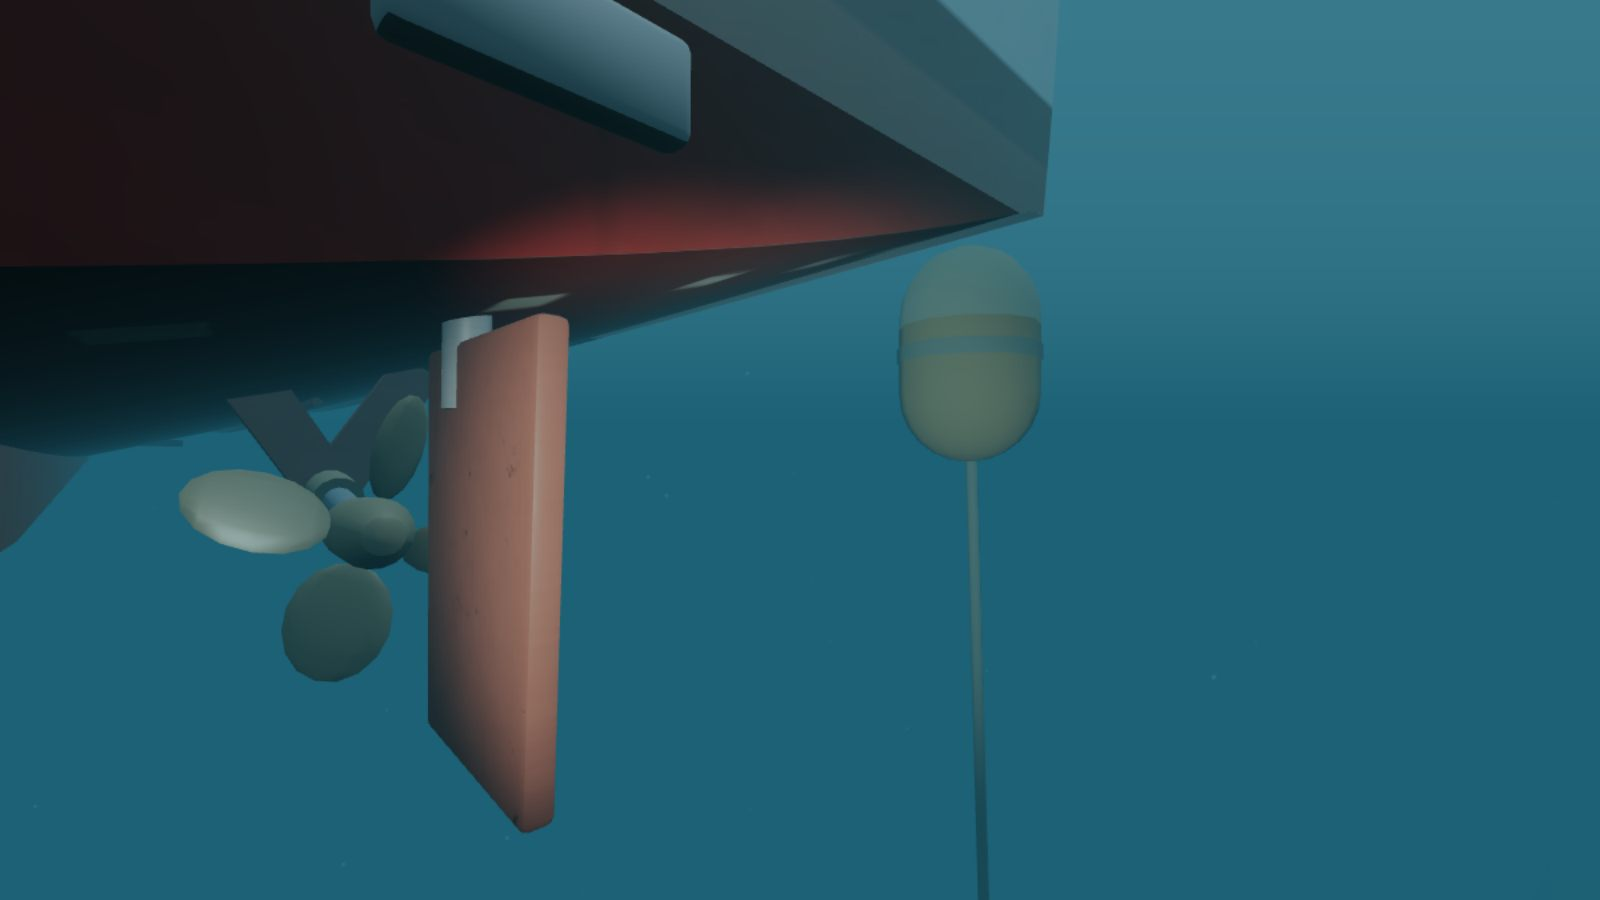
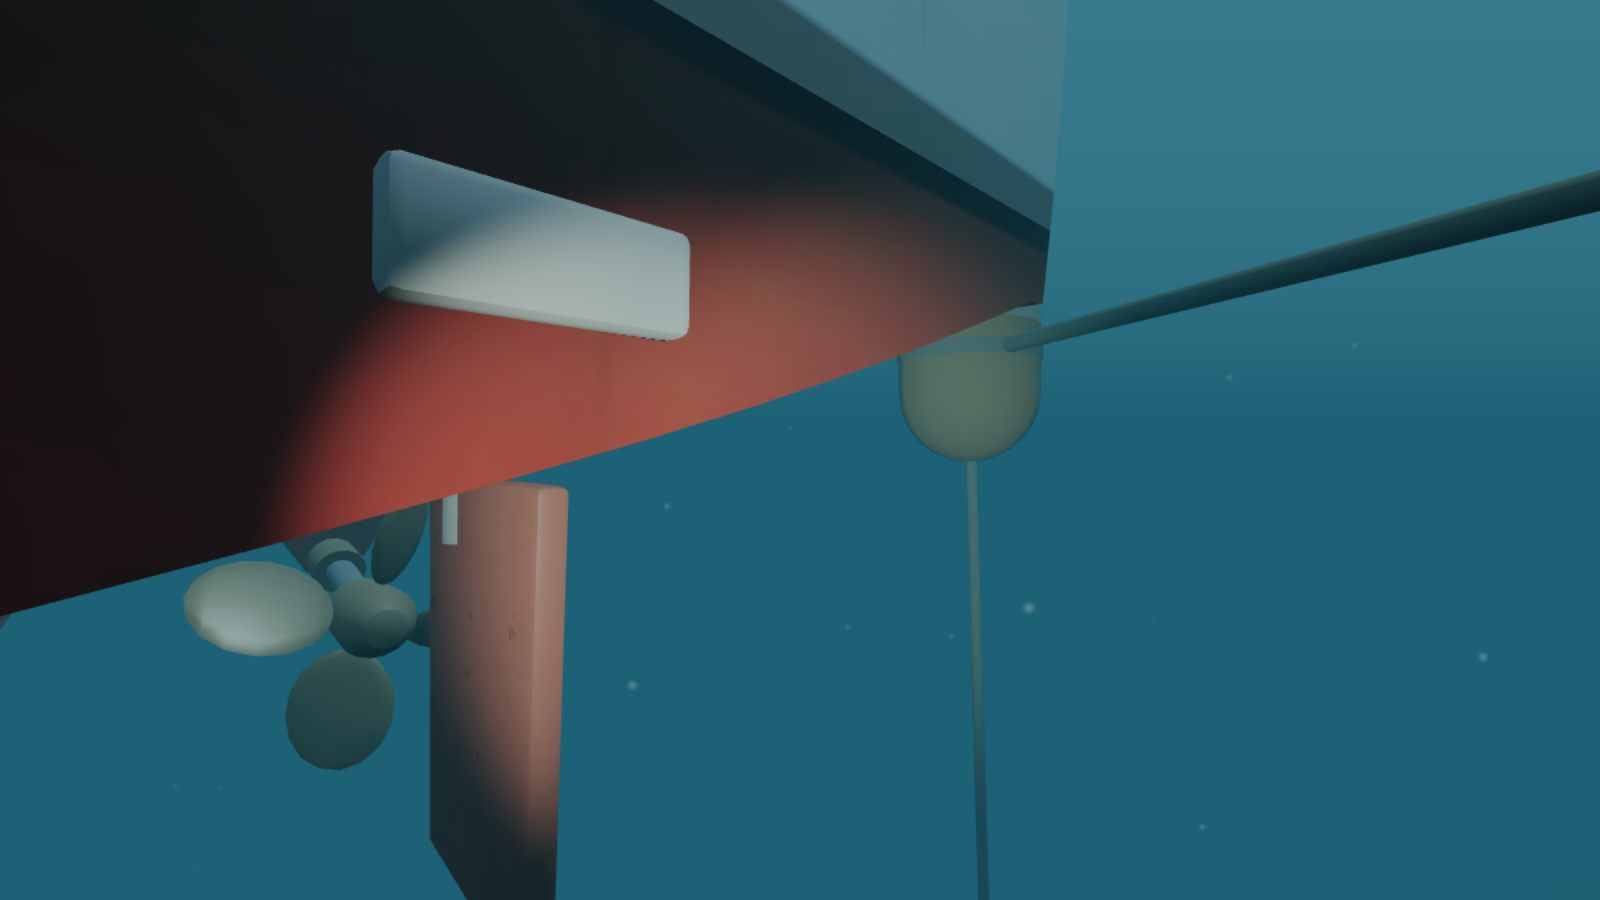
Keep the open-water recovery pickup visible during unpowered deployment

Changed region(s): [[0.0, 0.0, 0.6562, 1.0], [0.6562, 0.1867, 1.0, 0.3733], [0.2188, 0.0, 0.4375, 0.1556]]

diff --git a/simulator/qysim/scene_landmarks.py b/simulator/qysim/scene_landmarks.py
@@ -47,16 +47,26 @@ MOORINGS = {
 
 def training_stations(bed):
     """The four corners of the open-water box have separate marker lines outside the flight lane."""
+    recovery_head = (-3.6, -2.7, .12)
     stations = [
         ("North drop", (13, 1.5), (13.2, 1, 2.7), (5., 9.)),
         ("East drop", (8.6, 14), (10.3, 13.4, 5.7), (7.9, 10.7)),
         ("Deep drop", (-3.8, 8), (-3.1, 9.4, 8.6), (11.4, 13.6)),
-        ("Recovery drop", (-3, -3), (-3.6, -2.7, .12), (2.8, 6.1, 9.)),
+        ("Recovery drop", (-3, -3), recovery_head, (2.8, 6.1, 9.)),
     ]
     obstacles = []
     for label, foot, head, depths in stations:
         floor = bed - float(channel_relief(foot[1]))
         obstacles.extend(sounding_mooring(label, (*foot, floor), head, depths))
+    # A short pickup pendant trails the recovery buoy toward the deployment side.
+    # Its upper fender marks the surface and the lower stopper sits above the free handhold.
+    pickup = (4.55, 1.95, .16)
+    obstacles.extend([
+        Cylinder("Recovery pickup painter", recovery_head, pickup, .031, "survey_line"),
+        Cylinder("Recovery pickup fender", pickup, (4.55, 1.95, .71), .30, "survey_float"),
+        Cylinder("Recovery hand line", (4.55, 1.95, .66), (4.65, 2.06, 2.63), .039, "survey_line"),
+        Cylinder("Recovery stopper float", (4.61, 2.02, 1.87), (4.61, 2.02, 2.08), .19, "survey_float"),
+    ])
     return obstacles
 
 

diff --git a/docs/design/scene-density/README.md b/docs/design/scene-density/README.md
@@ -65,3 +65,5 @@ kill "$before_pid" "$after_pid"
 港邊的玻璃、陶片與纜繩殘段分布在樁腳和港底，樁面可見測站編號及附著群。沉船的斷肋、鋼板和散落件延伸到船體以外。礁區的岩拱可以穿過，海草場的岩脊露出草冠。風場的水平線保持開闊，箱網外圈可見遮蔽海灣。布置及光學參數為虛構場址的設計假設，素材來源見 [模型授權紀錄](../../../simulator/viewer/models/CREDITS.md)。
 
 另用 medium 畫質停在相同時間、相同機位切換既有的水下美化。海草床第 35 秒在 6 公尺深，關閉時仍看得到石峰和沙地。沉船事故第 25 秒位於 128 公尺深，兩種設定下都由機燈照出鋼材本色、蛇尾與藤壺。[查看光照開關對照](lighting-medium.jpg)
+
+開放水域另驗了關燈操作機械臂的投放流程。兩版都由機載相機實際匯出 PNG，依各自的操作時間拍攝。新版在模擬時間 16.63 秒、水深 0.7 公尺能辨認回收浮具與手繩。此組未計入上表的固定航線樣本。[查看投放操作的機載照片](deployment-arm-check.jpg)
